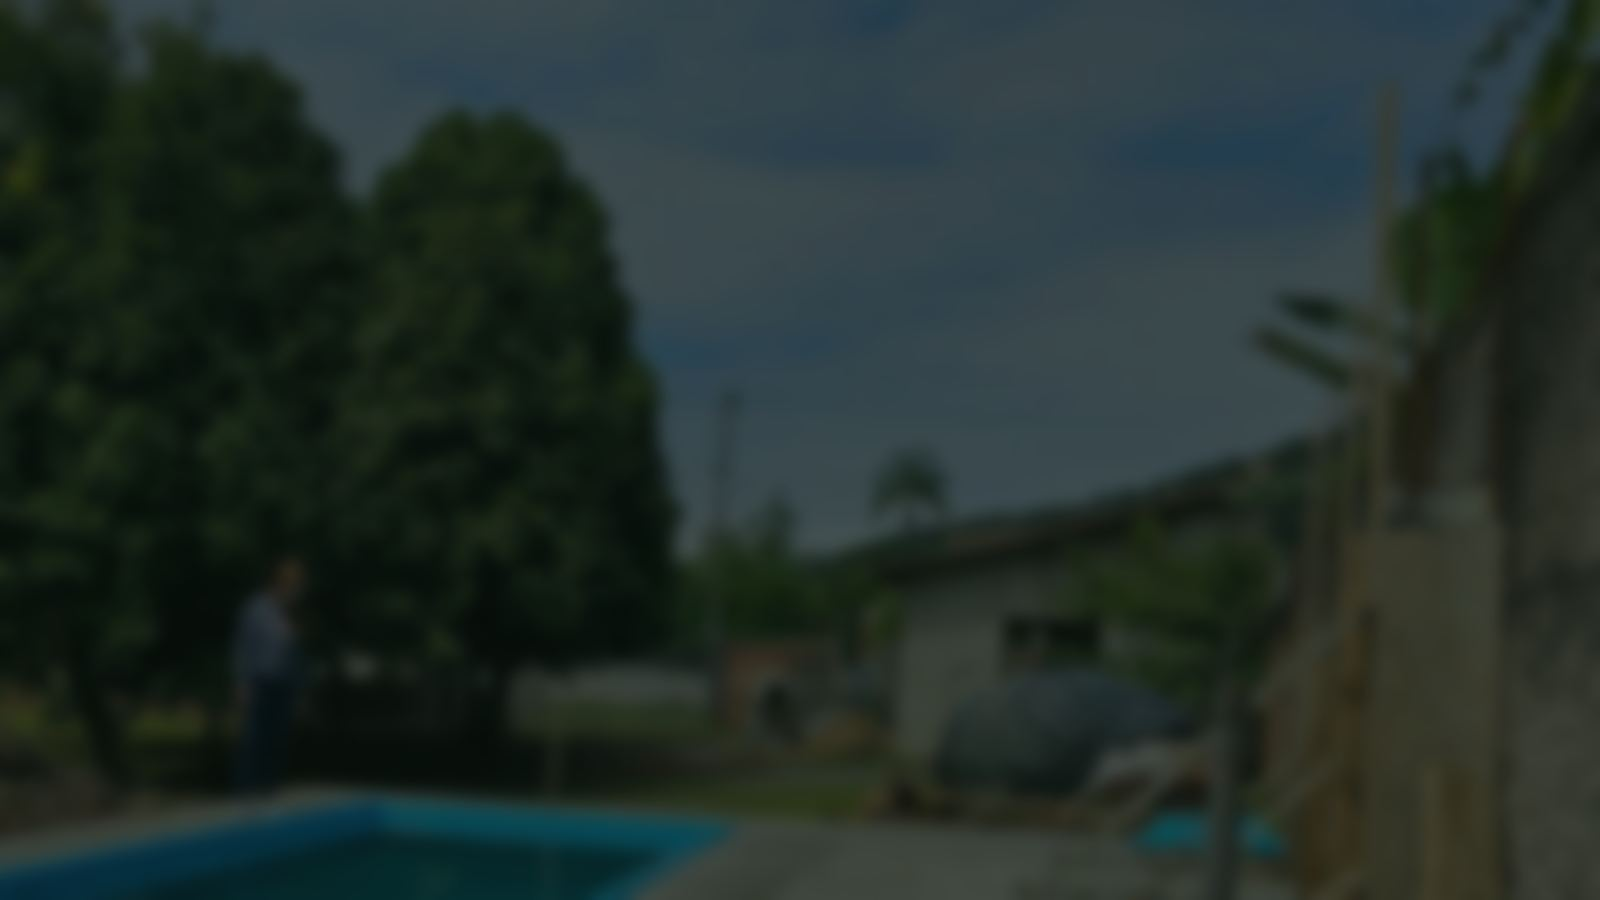
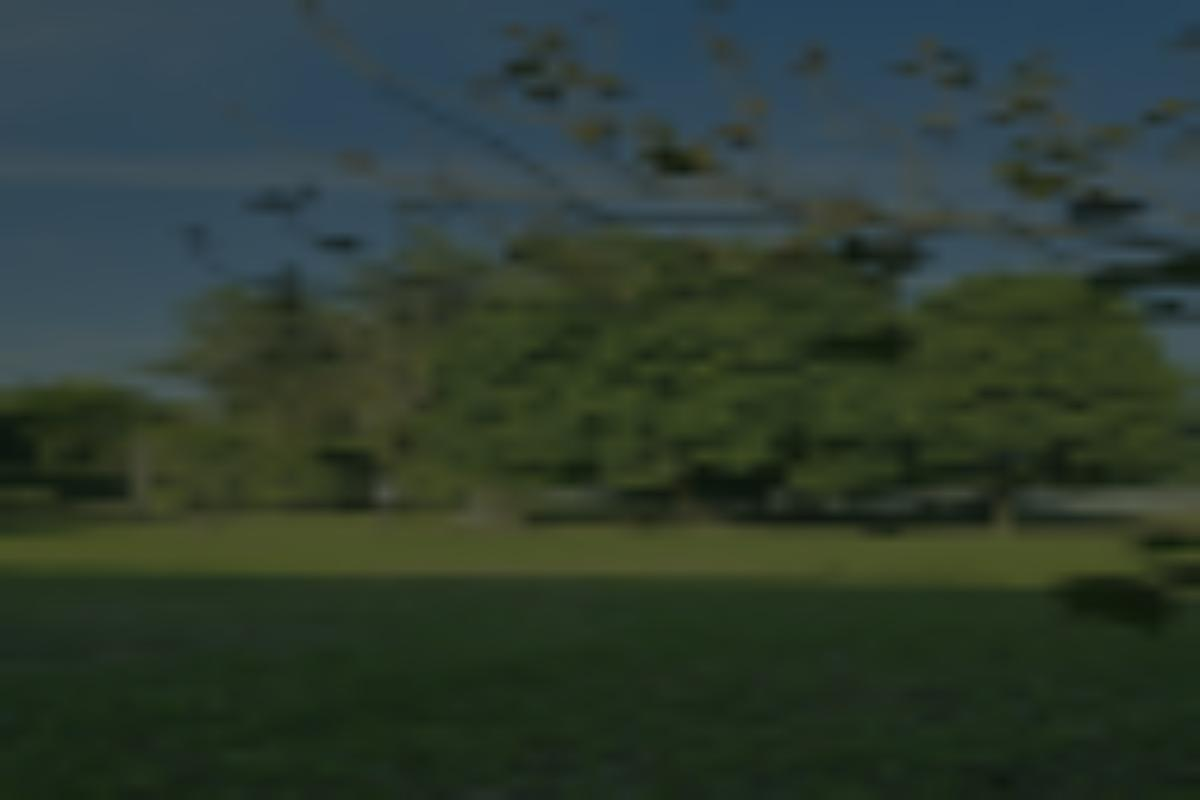
Atualiza prévia: hero natureza, paleta e galeria
Hero full-bleed com foto de árvores/gramado/céu (recorte sem UI Instagram),
paleta inspirada em verdes e azul do céu, galeria com nova foto + cozinha e
piscina em obras. Soft-note: Prévia de demonstração. noindex mantido.

diff --git a/assets/css/styles.css b/assets/css/styles.css
@@ -1,15 +1,19 @@
 /* Camping Central Antonina — experiência natureza */
 :root {
+  /* Paleta inspirada na foto hero (vegetação + céu + dourado) */
   --forest-950: #07140c;
   --forest-900: #0d1f14;
   --forest-800: #163525;
   --forest-700: #1f4a32;
   --forest-600: #2c6845;
-  --moss: #4f8a5f;
+  --moss: #486030;
   --leaf: #7cb87a;
+  --sky: #78a8d8;
+  --sky-deep: #6090d8;
   --cream: #f7f1e6;
   --cream-soft: #efe6d6;
   --sand: #d7c3a4;
+  --gold: #c0c048;
   --terracotta: #c45f3b;
   --terracotta-dark: #8f3f24;
   --ink: #102018;
@@ -33,26 +37,24 @@ a{color:inherit}
 .skip-link{position:absolute;left:-999px;top:0;z-index:1000;background:var(--forest-800);color:#fff;padding:.7rem 1rem}
 .skip-link:focus{left:1rem;top:1rem}
 
-/* ===== Immersive forest backdrop (decorative) ===== */
 .nature-bg{
   position:fixed; inset:0; z-index:0; pointer-events:none; overflow:hidden;
   background:
-    linear-gradient(180deg, rgba(7,20,12,.55) 0%, rgba(7,20,12,.35) 35%, rgba(7,20,12,.72) 100%),
+    linear-gradient(180deg, rgba(7,20,12,.5) 0%, rgba(7,20,12,.28) 35%, rgba(7,20,12,.78) 100%),
     url("../images/bg-folhagem.jpg") center/cover no-repeat,
+    radial-gradient(ellipse at 70% 8%, rgba(120,168,216,.22) 0%, transparent 45%),
     radial-gradient(ellipse at 20% 10%, #1f4a32 0%, transparent 50%),
     var(--forest-950);
 }
 .nature-bg .mist{
   position:absolute; inset:-10%;
   background:
-    radial-gradient(ellipse at 70% 20%, rgba(124,184,122,.18), transparent 45%),
+    radial-gradient(ellipse at 70% 20%, rgba(120,168,216,.16), transparent 45%),
     radial-gradient(ellipse at 15% 80%, rgba(196,95,59,.12), transparent 40%),
     linear-gradient(115deg, transparent 40%, rgba(255,255,255,.05) 50%, transparent 60%);
   animation: lightSweep 18s ease-in-out infinite;
 }
-.nature-bg .canopy{
-  position:absolute; inset:0; width:100%; height:100%;
-}
+.nature-bg .canopy{ position:absolute; inset:0; width:100%; height:100%; }
 .nature-bg .leaf{
   position:absolute; width:18px; height:28px; opacity:.22;
   background: radial-gradient(ellipse at 30% 30%, #a8d89a, #2c6845 70%);
@@ -72,17 +74,14 @@ a{color:inherit}
   0%{ transform: translate3d(0,-10vh,0) rotate(0deg) }
   100%{ transform: translate3d(12vw,110vh,0) rotate(160deg) }
 }
-
 @media (prefers-reduced-motion: reduce){
   .nature-bg .mist, .nature-bg .leaf{ animation:none !important }
   html{ scroll-behavior:auto }
 }
 .nature-bg.is-static .mist, .nature-bg.is-static .leaf{ animation:none !important }
 
-
 .wrap{ width:min(100% - 2rem, var(--max)); margin-inline:auto }
 
-/* Header */
 .site-header{
   position:sticky; top:0; z-index:50;
   background: rgba(7,20,12,.72); backdrop-filter: blur(14px);
@@ -117,25 +116,63 @@ a{color:inherit}
 }
 
 .soft-note{
-  margin:.65rem auto 0; width:min(100% - 2rem, var(--max));
-  color:rgba(247,241,230,.72); font-size:.82rem;
+  margin:.55rem auto 0; width:min(100% - 2rem, var(--max));
+  color:rgba(247,241,230,.55); font-size:.78rem; letter-spacing:.02em;
 }
 
-/* Hero */
-.hero{
-  display:grid; grid-template-columns:1.05fr .95fr; gap:1.25rem; align-items:stretch;
-  padding:1.4rem 0 1.5rem;
+/* Full-bleed nature hero */
+.hero-bleed{
+  position:relative;
+  min-height:min(78vh, 720px);
+  margin: .6rem 0 0;
+  border-radius: 0;
+  overflow:hidden;
 }
-.hero-copy{
-  background: rgba(247,241,230,.92); border-radius:28px; padding:clamp(1.4rem,3vw,2.1rem);
-  box-shadow: var(--shadow); border:1px solid rgba(255,255,255,.35);
+.hero-bleed-media{
+  position:absolute; inset:0;
 }
+.hero-bleed-media picture, .hero-bleed-media img{
+  width:100%; height:100%; object-fit:cover; display:block;
+}
+.hero-bleed-media img{ min-height:min(78vh, 720px); }
+.hero-bleed-scrim{
+  position:absolute; inset:0;
+  background:
+    linear-gradient(105deg, rgba(7,20,12,.88) 0%, rgba(7,20,12,.62) 42%, rgba(7,20,12,.28) 70%, rgba(22,53,37,.18) 100%),
+    linear-gradient(0deg, rgba(7,20,12,.55) 0%, transparent 42%);
+}
+.hero-bleed-copy{
+  position:relative; z-index:2;
+  width:min(100% - 2rem, var(--max));
+  margin:0 auto;
+  padding: clamp(2.2rem, 7vh, 4.2rem) 0;
+  max-width: 34rem;
+  color: var(--cream);
+}
+.hero-bleed-copy .eyebrow{ color:#efb39a; margin-bottom:.55rem }
+.hero-bleed-copy h1{
+  font-family:var(--display); font-size:clamp(2.4rem,5.2vw,3.7rem); line-height:1.04;
+  margin:0 0 .8rem; color:#fff; text-shadow:0 8px 28px rgba(0,0,0,.35);
+}
+.hero-bleed-copy .lede{
+  margin:0 0 1.25rem; color:rgba(247,241,230,.88); font-size:1.08rem; max-width:36ch;
+}
+.hero-bleed-copy .btn-ghost{
+  background:rgba(247,241,230,.1); border-color:rgba(247,241,230,.35); color:#fff;
+}
+.hero-bleed-copy .btn-ghost:hover{ background:rgba(247,241,230,.2) }
+.hero-badge{
+  position:absolute; right:1.1rem; bottom:1.1rem; z-index:2;
+  background:rgba(7,20,12,.78); color:var(--cream); padding:.55rem .85rem; border-radius:999px;
+  font-size:.82rem; font-weight:700;
+}
+@media (max-width:700px){
+  .hero-bleed{ min-height:72vh }
+  .hero-bleed-media img{ min-height:72vh }
+  .hero-badge{ left:1rem; right:auto }
+}
+
 .eyebrow{ display:inline-block; font-size:.74rem; letter-spacing:.14em; text-transform:uppercase; color:var(--terracotta-dark); font-weight:800; margin:0 0 .65rem }
-.hero-copy h1{
-  font-family:var(--display); font-size:clamp(2.3rem,4.6vw,3.55rem); line-height:1.05;
-  margin:0 0 .85rem; color:var(--forest-950);
-}
-.lede{ margin:0 0 1.35rem; color:var(--muted); font-size:1.08rem; max-width:36ch }
 .hero-actions{ display:flex; flex-wrap:wrap; gap:.7rem }
 .btn{
   display:inline-flex; align-items:center; justify-content:center; gap:.4rem;
@@ -146,22 +183,8 @@ a{color:inherit}
 .btn-primary:hover{ filter:brightness(1.05) }
 .btn-ghost{ background:rgba(22,53,37,.06); border-color:rgba(22,53,37,.18); color:var(--forest-800) }
 .btn-ghost:hover{ background:#fff }
-.hero-visual{
-  position:relative; border-radius:28px; overflow:hidden; min-height:340px; max-height:520px; box-shadow:var(--shadow);
-}
-.hero-visual img{ width:100%; height:100%; object-fit:cover; min-height:340px; max-height:520px }
-.hero-badge{
-  position:absolute; left:1rem; bottom:1rem;
-  background:rgba(7,20,12,.78); color:var(--cream); padding:.55rem .85rem; border-radius:999px;
-  font-size:.82rem; font-weight:700;
-}
-@media (max-width:920px){
-  .hero{ grid-template-columns:1fr }
-  .hero-visual{ order:-1; min-height:240px; max-height:360px }
-  .hero-visual img{ min-height:240px; max-height:360px }
-}
 
-section{ padding:1.6rem 0 }
+section{ padding:1.9rem 0 }
 .panel{
   background: rgba(247,241,230,.93); border-radius:28px; padding:clamp(1.3rem,3vw,2rem);
   border:1px solid rgba(255,255,255,.3); box-shadow:0 18px 50px rgba(7,20,12,.18);
@@ -173,16 +196,14 @@ section{ padding:1.6rem 0 }
 .section-head p{ margin:0; color:var(--muted) }
 
 .split{ display:grid; grid-template-columns:1.05fr .95fr; gap:1.2rem; align-items:center }
-.split img{ width:100%; border-radius:20px; aspect-ratio:4/5; object-fit:cover; max-height:460px; box-shadow:0 14px 36px rgba(7,20,12,.18) }
+.split img{ width:100%; border-radius:20px; aspect-ratio:4/5; object-fit:cover; box-shadow:0 14px 36px rgba(7,20,12,.18) }
 .split.alt{ grid-template-columns:.95fr 1.05fr }
 @media (max-width:860px){
   .split,.split.alt{ grid-template-columns:1fr }
   .split.alt .copy{ order:-1 }
 }
 
-.gallery-grid{
-  display:grid; grid-template-columns:repeat(12,1fr); gap:.8rem;
-}
+.gallery-grid{ display:grid; grid-template-columns:repeat(12,1fr); gap:.8rem; }
 .gallery-item{
   grid-column: span 4; border:0; padding:0; background:none; cursor:zoom-in;
   border-radius:18px; overflow:hidden; position:relative; box-shadow:0 12px 30px rgba(7,20,12,.16);
@@ -192,6 +213,7 @@ section{ padding:1.6rem 0 }
 .gallery-item:nth-child(3){ grid-column: span 4 }
 .gallery-item:nth-child(4){ grid-column: span 4 }
 .gallery-item:nth-child(5){ grid-column: span 4 }
+.gallery-item:nth-child(6){ grid-column: span 6 }
 .gallery-item img{ width:100%; height:230px; object-fit:cover; transition: transform .4s ease }
 .gallery-item:hover img, .gallery-item:focus-visible img{ transform:scale(1.04) }
 .gallery-item:focus-visible{ outline:3px solid #efb39a; outline-offset:3px }
@@ -229,17 +251,13 @@ section{ padding:1.6rem 0 }
 }
 @media (max-width:900px){ .works-grid{ grid-template-columns:1fr } .works-card img{ height:210px } }
 
-.cta{
-  display:grid; grid-template-columns:1.2fr .8fr; gap:1.2rem; align-items:center;
-}
+.cta{ display:grid; grid-template-columns:1.2fr .8fr; gap:1.2rem; align-items:center; }
 .cta h2{ font-family:var(--display); margin:0 0 .45rem; color:var(--forest-950) }
 .cta p{ margin:0; color:var(--muted) }
 .cta-actions{ display:flex; flex-wrap:wrap; gap:.7rem; justify-content:flex-end }
 @media (max-width:820px){ .cta{ grid-template-columns:1fr } .cta-actions{ justify-content:flex-start } }
 
-.site-footer{
-  padding:2.2rem 0 3rem; color:rgba(247,241,230,.7); font-size:.9rem;
-}
+.site-footer{ padding:2.2rem 0 3rem; color:rgba(247,241,230,.7); font-size:.9rem; }
 .site-footer a{ color:#efb39a }
 .site-footer strong{ color:var(--cream) }
 

diff --git a/index.html b/index.html
@@ -24,7 +24,6 @@
           <stop offset="100%" stop-color="#07140c" stop-opacity="0"/>
         </linearGradient>
       </defs>
-      <!-- silhuetas de árvores / copas (decoração abstrata) -->
       <path fill="url(#g1)" d="M0,0 H1200 V180 C980,240 860,120 700,160 C540,210 480,90 320,140 C180,185 90,110 0,150 Z"/>
       <g fill="#0a1a10" opacity=".55">
         <path d="M80,800 V320 C80,320 20,260 55,210 C90,160 120,250 145,210 C175,155 210,250 240,300 V800 Z"/>
@@ -69,35 +68,49 @@
     <p class="soft-note">Prévia de demonstração.</p>
 
     <main id="conteudo">
-      <section class="wrap hero" id="topo">
-        <div class="hero-copy">
+      <section class="hero-bleed" id="topo">
+        <div class="hero-bleed-media" aria-hidden="false">
+          <picture>
+            <source type="image/webp" srcset="assets/images/hero-arvores-ceu-wide.webp 1920w, assets/images/hero-arvores-ceu.webp 1200w" sizes="100vw">
+            <img
+              src="assets/images/hero-arvores-ceu-wide.jpg"
+              srcset="assets/images/hero-arvores-ceu-wide.jpg 1920w, assets/images/hero-arvores-ceu.jpg 1200w"
+              sizes="100vw"
+              width="1186" height="944"
+              alt="Gramado, árvores arredondadas e céu azul no Camping Central Antonina"
+              fetchpriority="high"
+              decoding="async">
+          </picture>
+        </div>
+        <div class="hero-bleed-scrim" aria-hidden="true"></div>
+        <div class="hero-bleed-copy">
           <p class="eyebrow">Camping · natureza</p>
           <h1>Camping Central Antonina</h1>
-          <p class="lede">Um refúgio arborizado para acampar, cozinhar juntos e acompanhar o espaço ganhando forma.</p>
+          <p class="lede">Árvores, gramado e céu aberto — um canto para acampar e acompanhar o espaço ganhando forma.</p>
           <div class="hero-actions">
             <a class="btn btn-primary" href="https://www.instagram.com/campingantonina/" target="_blank" rel="noopener noreferrer">Abrir Instagram</a>
             <a class="btn btn-ghost" href="#galeria">Ver fotos</a>
           </div>
         </div>
-        <div class="hero-visual">
-          <img src="assets/images/cozinha-bancada.jpg" width="1200" height="1600" alt="Cozinha do Camping Central Antonina com bancada e geladeira" fetchpriority="high">
-          <span class="hero-badge">Cozinha no camping</span>
-        </div>
+        <span class="hero-badge">Área arborizada</span>
       </section>
 
       <section class="wrap" id="lugar">
         <div class="panel">
           <div class="section-head">
             <p class="eyebrow">O lugar</p>
-            <h2>Entre paredes novas, árvores e céu aberto</h2>
-            <p>Ambiente de camping com área externa em transformação e uma cozinha preparada para o dia a dia. Para novidades e conversa, o canal é o Instagram.</p>
+            <h2>Entre árvores, gramado e céu aberto</h2>
+            <p>Ambiente de camping com vegetação ao redor e área externa em transformação. Para novidades e conversa, o canal é o Instagram.</p>
           </div>
           <div class="split">
             <div class="copy">
               <h3 style="font-family:var(--display);margin:0 0 .5rem;color:var(--forest-800)">Área externa</h3>
-              <p style="margin:0;color:var(--muted)">Espaço aberto com vegetação ao redor. Parte da estrutura externa ainda está em obras — acompanhe a evolução antes da visita.</p>
+              <p style="margin:0;color:var(--muted)">Espaço aberto com gramado e árvores. Parte da estrutura externa ainda está em obras — acompanhe a evolução antes da visita.</p>
             </div>
-            <img src="assets/images/piscina-arvore.jpg" width="1600" height="900" alt="Área externa do camping com vegetação e estrutura em obras" loading="lazy">
+            <picture>
+              <source type="image/webp" srcset="assets/images/hero-arvores-ceu.webp">
+              <img src="assets/images/hero-arvores-ceu.jpg" width="1186" height="1629" alt="Gramado e árvores no camping" loading="lazy">
+            </picture>
           </div>
         </div>
       </section>
@@ -110,7 +123,10 @@
             <p>Ambiente interno com bancada, pia e fogão. Detalhes de uso e disponibilidade: confirme pelo Instagram.</p>
           </div>
           <div class="split alt">
-            <img src="assets/images/cozinha-pia.jpg" width="1126" height="1523" alt="Pia e fogão na cozinha do camping" loading="lazy">
+            <picture>
+              <source type="image/webp" srcset="assets/images/cozinha-pia.webp">
+              <img src="assets/images/cozinha-pia.jpg" width="1126" height="1523" alt="Pia e fogão na cozinha do camping" loading="lazy">
+            </picture>
             <div class="copy">
               <h3 style="font-family:var(--display);margin:0 0 .5rem;color:var(--forest-800)">Bancada e geladeira</h3>
               <p style="margin:0 0 1rem;color:var(--muted)">Espaço claro e funcional para refeições durante a estadia.</p>
@@ -128,6 +144,10 @@
             <p>Toque para ampliar. Use as setas do teclado e Esc para fechar.</p>
           </div>
           <div class="gallery-grid">
+            <button type="button" class="gallery-item" data-lightbox data-full="assets/images/hero-arvores-ceu.jpg" data-caption="Gramado, árvores e céu azul" aria-label="Ampliar foto do gramado e árvores">
+              <img src="assets/images/galeria-arvores-ceu-thumb.jpg" alt="Gramado e árvores sob céu azul" width="626" height="860" loading="lazy">
+              <span class="gallery-caption">Árvores e gramado</span>
+            </button>
             <button type="button" class="gallery-item" data-lightbox data-full="assets/images/cozinha-bancada.jpg" data-caption="Cozinha — bancada e geladeira" aria-label="Ampliar foto da cozinha com bancada">
               <img src="assets/images/cozinha-bancada.jpg" alt="Cozinha com bancada e geladeira" width="900" height="1600" loading="lazy">
               <span class="gallery-caption">Cozinha — bancada</span>
